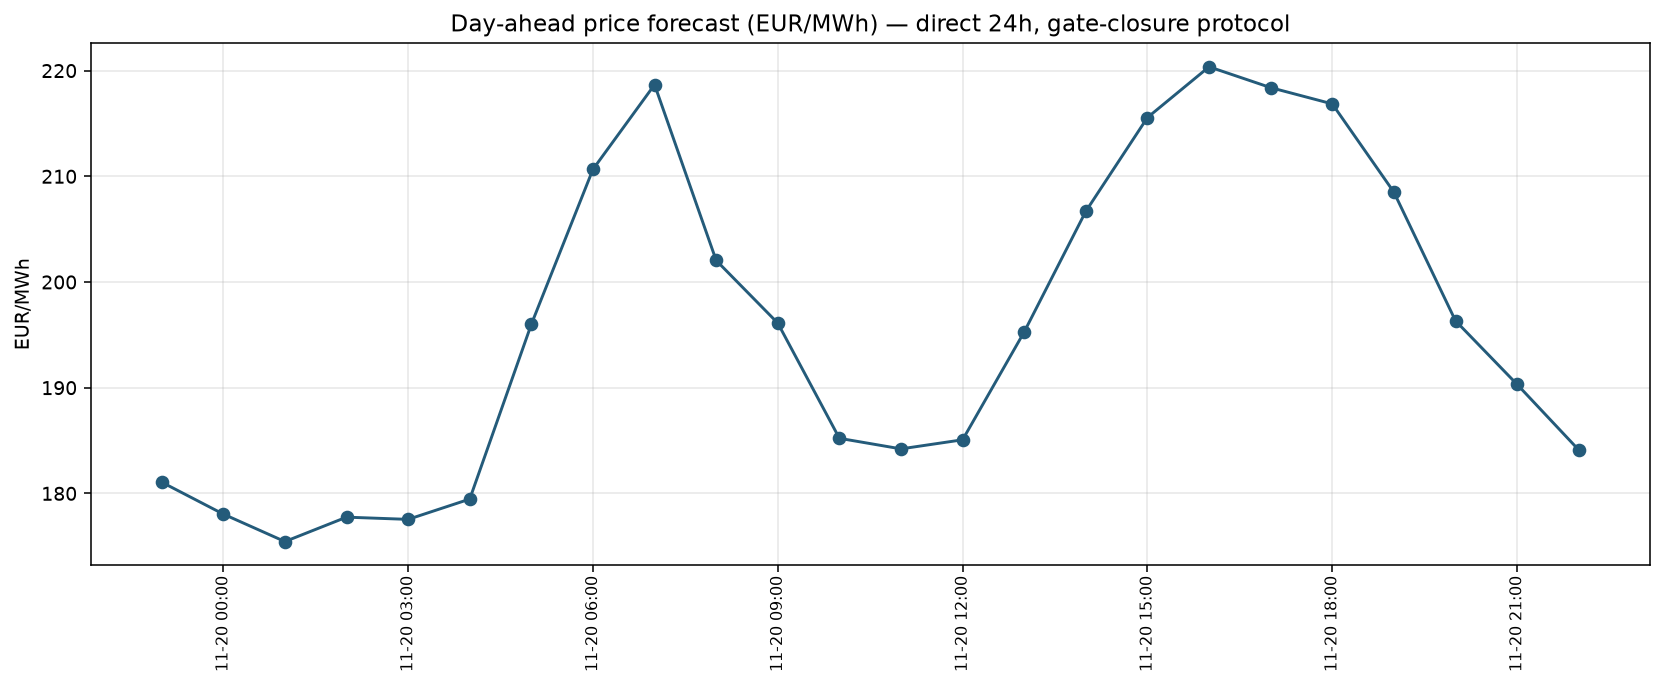
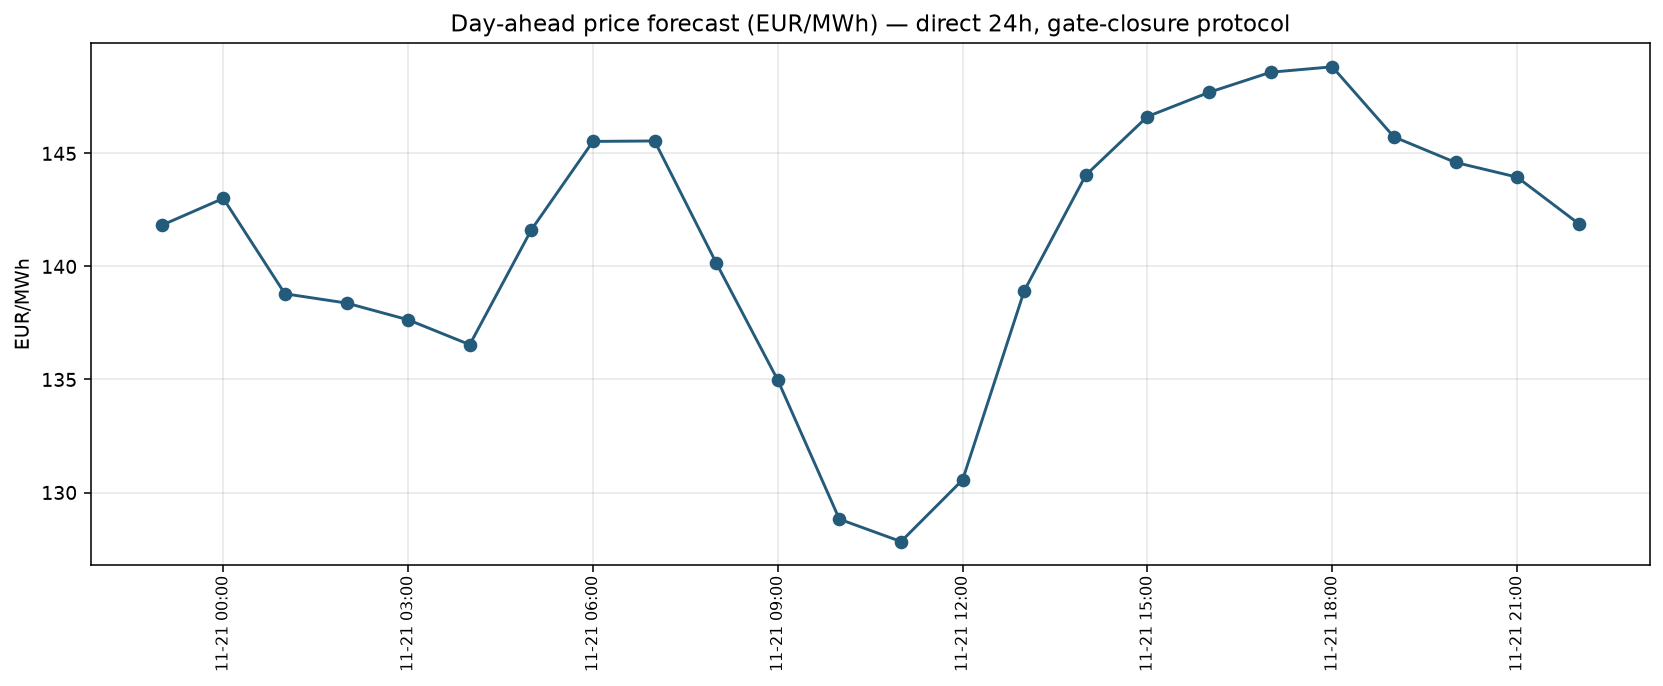
chore: daily forecast and evaluation update

diff --git a/README.md b/README.md
@@ -61,7 +61,7 @@ Entry points: `scripts/run_daily_forecast.py` (live), `scripts/run_rolling_eval.
 
 ## 5. Results
 
-_Auto-generated by `scripts/run_ablation.py` / `scripts/run_rolling_eval.py` - last update 2026-11-19 19:18 UTC._
+_Auto-generated by `scripts/run_ablation.py` / `scripts/run_rolling_eval.py` - last update 2026-11-20 09:47 UTC._
 
 ### 5.1 Backtest ablation (gate-closure protocol)
 
@@ -179,9 +179,9 @@ Code: MIT. Market data remain under their original terms. SMARD-related series: 
 
 ## Live daily forecast
 
-**Generated (UTC):** 2026-11-19 19:08  
+**Generated (UTC):** 2026-11-20 09:47  
 **Based on data up to (UTC):** 2026-11-19 22:00  
-**Forecast horizon (UTC):** 2026-11-19 23:00 to 2026-11-20 22:00  
+**Forecast horizon (UTC):** 2026-11-20 23:00 to 2026-11-21 22:00  
 **Protocol:** gate-closure features (lags >= 24 h, complete-day context) + external_shift = 24 + ENTSO-E load (no shift) + direct 24h + shrunk hourly bias correction
 
 ### Forecast chart
@@ -192,30 +192,30 @@ Code: MIT. Market data remain under their original terms. SMARD-related series: 
 
 | Hour (UTC) | Forecast (EUR/MWh) | Bias |
 |------------|--------------------|------|
-| 2026-11-19 23:00 | 181.06 | 0.00 |
-| 2026-11-20 00:00 | 178.04 | 0.00 |
-| 2026-11-20 01:00 | 175.44 | 0.00 |
-| 2026-11-20 02:00 | 177.75 | 0.00 |
-| 2026-11-20 03:00 | 177.54 | 0.00 |
-| 2026-11-20 04:00 | 179.46 | 0.00 |
-| 2026-11-20 05:00 | 196.00 | 0.00 |
-| 2026-11-20 06:00 | 210.66 | 0.00 |
-| 2026-11-20 07:00 | 218.67 | 0.00 |
-| 2026-11-20 08:00 | 202.04 | 0.00 |
-| 2026-11-20 09:00 | 196.11 | 0.00 |
-| 2026-11-20 10:00 | 185.21 | 0.00 |
-| 2026-11-20 11:00 | 184.21 | 0.00 |
-| 2026-11-20 12:00 | 185.07 | 0.00 |
-| 2026-11-20 13:00 | 195.28 | 0.00 |
-| 2026-11-20 14:00 | 206.69 | 0.00 |
-| 2026-11-20 15:00 | 215.56 | 0.00 |
-| 2026-11-20 16:00 | 220.36 | 0.00 |
-| 2026-11-20 17:00 | 218.39 | 0.00 |
-| 2026-11-20 18:00 | 216.85 | 0.00 |
-| 2026-11-20 19:00 | 208.50 | 0.00 |
-| 2026-11-20 20:00 | 196.33 | 0.00 |
-| 2026-11-20 21:00 | 190.31 | 0.00 |
-| 2026-11-20 22:00 | 184.11 | 0.00 |
+| 2026-11-20 23:00 | 141.82 | 0.00 |
+| 2026-11-21 00:00 | 143.01 | 0.00 |
+| 2026-11-21 01:00 | 138.79 | 0.00 |
+| 2026-11-21 02:00 | 138.38 | 0.00 |
+| 2026-11-21 03:00 | 137.64 | 0.00 |
+| 2026-11-21 04:00 | 136.54 | 0.00 |
+| 2026-11-21 05:00 | 141.62 | 0.00 |
+| 2026-11-21 06:00 | 145.53 | 0.00 |
+| 2026-11-21 07:00 | 145.55 | 0.00 |
+| 2026-11-21 08:00 | 140.16 | 0.00 |
+| 2026-11-21 09:00 | 134.97 | 0.00 |
+| 2026-11-21 10:00 | 128.82 | 0.00 |
+| 2026-11-21 11:00 | 127.83 | 0.00 |
+| 2026-11-21 12:00 | 130.56 | 0.00 |
+| 2026-11-21 13:00 | 138.92 | 0.00 |
+| 2026-11-21 14:00 | 144.04 | 0.00 |
+| 2026-11-21 15:00 | 146.63 | 0.00 |
+| 2026-11-21 16:00 | 147.70 | 0.00 |
+| 2026-11-21 17:00 | 148.59 | 0.00 |
+| 2026-11-21 18:00 | 148.83 | 0.00 |
+| 2026-11-21 19:00 | 145.73 | 0.00 |
+| 2026-11-21 20:00 | 144.60 | 0.00 |
+| 2026-11-21 21:00 | 143.95 | 0.00 |
+| 2026-11-21 22:00 | 141.89 | 0.00 |
 
 ### Previous forecasts vs realized prices
 
